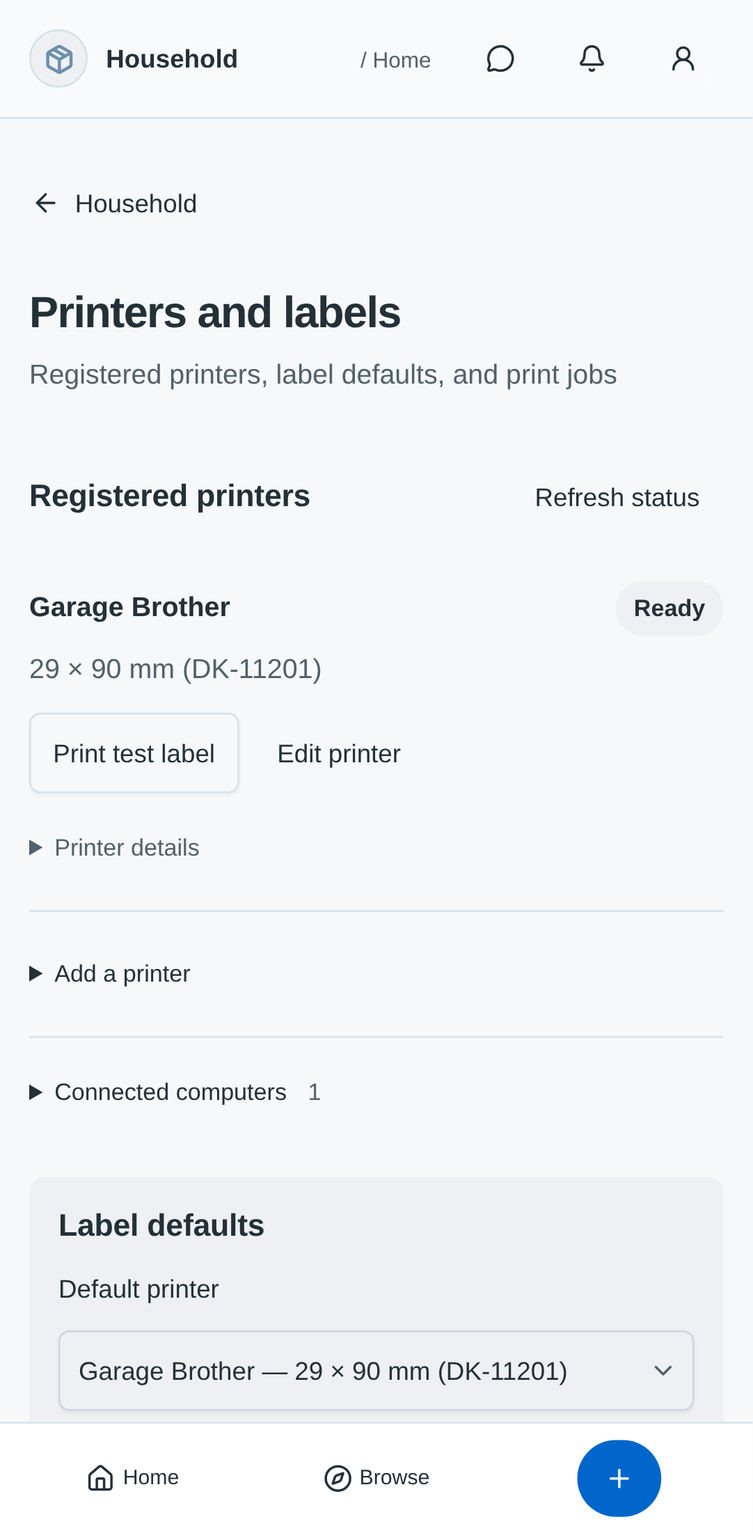
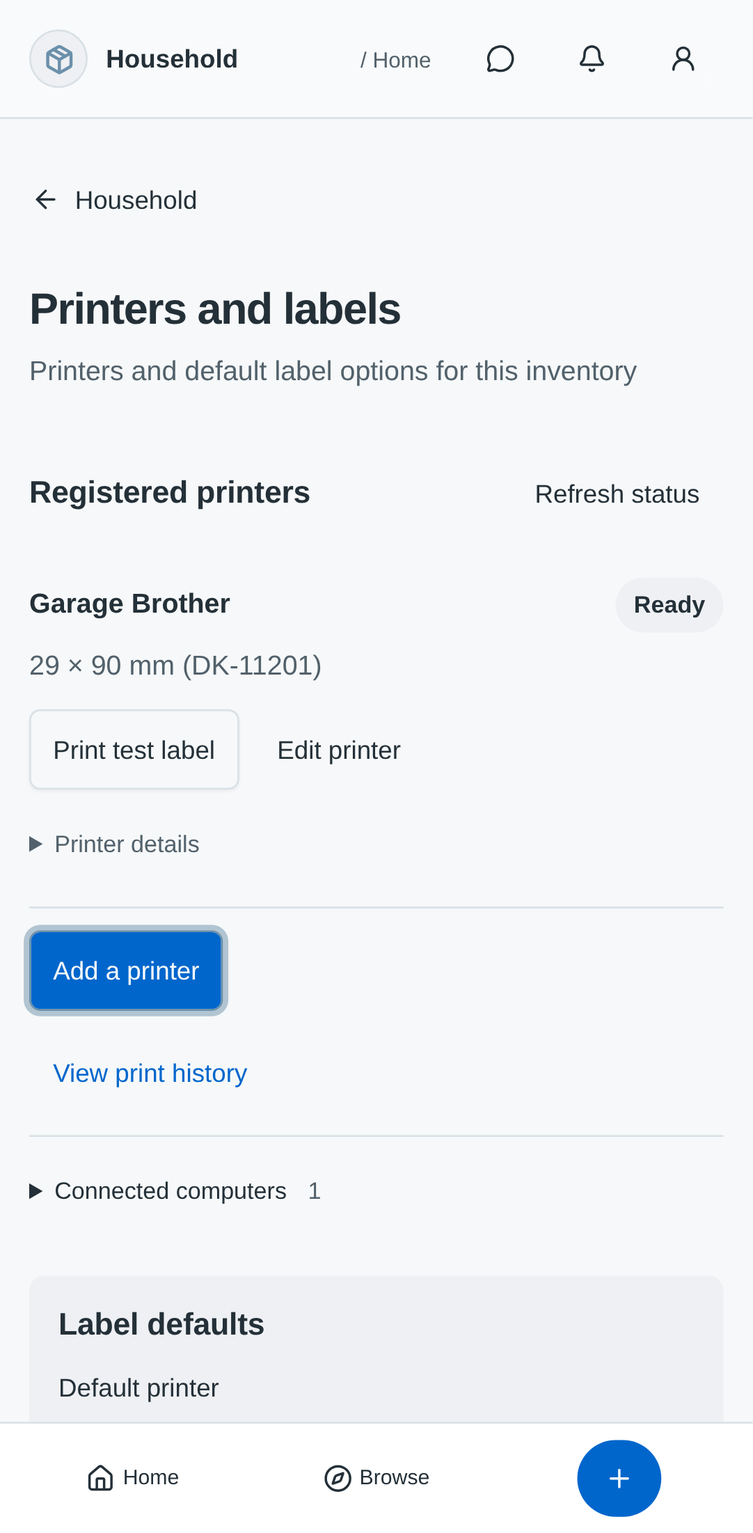
feat(web): separate printer setup and print history tasks

diff --git a/apps/web/src/lib/components/printing/InventoryPrintingSettings.svelte b/apps/web/src/lib/components/printing/InventoryPrintingSettings.svelte
@@ -1,5 +1,5 @@
 <script lang="ts">
-import { onMount } from 'svelte';
+import { onMount, tick, untrack } from 'svelte';
 import { t } from '$lib/presentation/localization';
 import { timestampLabel } from '$lib/presentation/timestamp';
 import { labelMediaName, connectorAvailabilityLabel, readinessReasonLabel, readinessLabel, connectorStatusLabel, printingFailureMessage } from '$lib/presentation/printing';
@@ -15,18 +15,31 @@ import type {PrintPollingRuntime} from '$lib/ports/printPolling';
 import PrintJobList from './PrintJobList.svelte';
 import PrinterSettingsDialog from './PrinterSettingsDialog.svelte';
 import PrinterTestDialog from './PrinterTestDialog.svelte';
+import PrinterSetupDialog from './PrinterSetupDialog.svelte';
+import type {TextClipboard} from '$lib/ports/textClipboard';
 import AssetPrintDialog from './AssetPrintDialog.svelte';
-let { scope, repository, intents, pollingRuntime, canConfigure, canPrint }: {
+let { scope, repository, intents, pollingRuntime, canConfigure, canPrint, view = 'settings', apiBaseUrl, clipboard, historyHref, onNavigate }: {
     scope: PrintScope;
     repository: PrintingRepository;
     intents?: PrintIntents;
     pollingRuntime?:PrintPollingRuntime;
     canConfigure: boolean;
     canPrint: boolean;
+    view?:'settings'|'history';
+    apiBaseUrl?:string;
+    clipboard?:TextClipboard;
+    historyHref?:string;
+    onNavigate?:(href:string)=>void;
 } = $props();
+let titleElement:HTMLHeadingElement;
+let lastView=untrack(()=>view);
+$effect(()=>{if(view!==lastView){lastView=view;void tick().then(()=>titleElement?.focus());}});
+let setupOpen=$state(false);let setupTrigger:HTMLElement|undefined;
+$effect(()=>{if(!canConfigure)setupOpen=false;});
 let mediaProfiles=$state<PrinterMediaChoice[]>([]);
 function mediaName(printer:RegisteredPrinter){return labelMediaName(mediaProfiles.find(p=>p.adapterId===printer.adapterId&&p.media.presetId===printer.media.presetId&&p.media.version===printer.media.version)?.media??printer.media);}
 let printers = $state<RegisteredPrinter[]>([]), connectors = $state<PrintConnector[]>([]), templates = $state<LabelTemplate[]>([]), jobs = $state<PrintJob[]>([]);
+const activeJobs=$derived(jobs.filter(job=>printJobNeedsPolling(job)));
 let draft = $state<PrintDefaults | null>(null), busy = $state(true), error = $state(''), saved = $state(false), conflict = $state(false), nextCursor = $state<string | undefined>();
 let savedDraft=$state('');
 const savedUnchanged=$derived(saved&&JSON.stringify(draft)===savedDraft);
@@ -91,7 +104,9 @@ finally {
 async function moreJobs() { if (!nextCursor || busy)
     return; busy = true; try {
     const page = await repository.jobs(scope, nextCursor);
-    jobs = [...jobs, ...page.items];
+    const merged=new Map(jobs.map(job=>[job.id,job]));
+    for(const job of page.items){const prior=merged.get(job.id);if(!prior||prior.revision<=job.revision)merged.set(job.id,job);}
+    jobs=[...merged.values()];
     nextCursor = page.nextCursor;
     pollError=false;
 }
@@ -131,14 +146,19 @@ function receiveStatus(value:Awaited<ReturnType<typeof pollStatus>>){
     const ids=new Set(refreshed.map(j=>j.id));jobs=[...refreshed,...jobs.filter(j=>!ids.has(j.id))];
 }
 </script>
-<PrintStatusPolling identity={JSON.stringify([scope.tenantId,scope.inventoryId])} enabled={!busy&&Boolean(draft)&&!editing&&!testPrinterId&&!reprint} read={pollStatus} publish={receiveStatus} failed={()=>{if(!busy)pollError=true;}} runtime={pollingRuntime}/>
+<PrintStatusPolling identity={JSON.stringify([scope.tenantId,scope.inventoryId])} enabled={!busy&&Boolean(draft)&&!editing&&!testPrinterId&&!reprint&&!setupOpen} read={pollStatus} publish={receiveStatus} failed={()=>{if(!busy)pollError=true;}} runtime={pollingRuntime}/>
 <section class="printing-settings" aria-labelledby="printing-settings-title" aria-busy={busy}>
- <header><h1 id="printing-settings-title">{t('web.Printing.title')}</h1><p>{t('web.Printing.description')}</p></header>
+ <header><h1 bind:this={titleElement} tabindex="-1" id="printing-settings-title">{t(view==='history'?'web.Printing.jobs':'web.Printing.title')}</h1><p>{t(view==='history'?'web.Printing.historyOrder':'web.Printing.description')}</p></header>
  {#if error}<p role="alert">{error}</p>{/if}
  {#if pollError}<p role="status">{t('web.Printing.statusRefreshFailed')}</p>{/if}
  {#if !draft}{#if busy}<p role="status">{t('web.Printing.loading')}</p>{:else}<Button.Root onclick={()=>void load()}>{t('web.Printing.reload')}</Button.Root>{/if}
  {:else}
 
+  {#if view==='history'}
+   <div><Button.Root variant="outline" disabled={busy} onclick={()=>void refresh()}>{t('web.Printing.refresh')}</Button.Root></div>
+   <PrintJobList {jobs} {printers} {scope} {canPrint} {busy} onCancel={cancel} onResolve={resolve} onReprint={intents?openReprint:undefined}/>
+   {#if nextCursor}<div><Button.Root variant="outline" disabled={busy} onclick={()=>void moreJobs()}>{t('web.Printing.moreJobs')}</Button.Root></div>{/if}
+  {:else}
   <div class="settings-grid">
   <section class="printers-panel" aria-labelledby="registered-printers-title">
    <div class="section-heading"><h2 id="registered-printers-title">{t('web.Printing.registered')}</h2><Button.Root variant="ghost" disabled={busy} onclick={()=>void refresh()}>{t('web.Printing.refresh')}</Button.Root></div>
@@ -152,7 +172,9 @@ function receiveStatus(value:Awaited<ReturnType<typeof pollStatus>>){
      {#if printer.reportedAt}<details class="diagnostics"><summary>{t('web.Printing.printerDetails')}</summary><p>{t('web.Printing.reportedAt',{time:timestampLabel(printer.reportedAt)})}</p></details>{/if}
     </li>
    {/each}</ul>
-   {#if canConfigure}<details class="setup" open={printers.length===0}><summary>{t('web.Printing.addPrinter')}</summary><p>{t('web.Printing.registrationHelp')}</p></details>{/if}
+   {#if canConfigure&&apiBaseUrl}<div class="setup-action"><Button.Root onclick={event=>{setupTrigger=event.currentTarget;setupOpen=true;}}>{t('web.Printing.addPrinter')}</Button.Root></div>{/if}
+   {#if historyHref}<div class="history-action"><Button.Root variant="link" href={historyHref} onclick={event=>{if(onNavigate&&!event.metaKey&&!event.ctrlKey&&!event.shiftKey&&!event.altKey&&event.button===0){event.preventDefault();onNavigate(historyHref!);}}}>{t('web.Printing.viewHistory')}</Button.Root></div>{/if}
+   {#if activeJobs.length}<section class="active-jobs"><h2>{t('web.Printing.activeJobs')}</h2><PrintJobList jobs={activeJobs} {printers} {scope} {canPrint} {busy} onCancel={cancel} onResolve={resolve}/></section>{/if}
    {#each connectors.filter(connector=>connector.availability!=='online'||connector.authorizationPending||connector.state!=='active') as connector(connector.id)}<p class="attention">{connector.name} · {connectorAvailabilityLabel(connector)} · {connectorStatusLabel(connector)}</p>{/each}
    <details class="computers"><summary>{t('web.Printing.connectors')} <span class="count">{connectors.length}</span></summary>
     {#if connectors.length===0}<p>{t('web.Printing.emptyConnectors')}</p>{/if}
@@ -173,11 +195,12 @@ function receiveStatus(value:Awaited<ReturnType<typeof pollStatus>>){
    </form>
   </section>
   </div>
-  <section><h2>{t('web.Printing.jobs')}</h2><PrintJobList {jobs} {printers} {scope} {canPrint} {busy} onCancel={cancel} onResolve={resolve} onReprint={intents?openReprint:undefined}/>{#if nextCursor}<Button.Root variant="outline" disabled={busy} onclick={()=>void moreJobs()}>{t('web.Printing.moreJobs')}</Button.Root>{/if}</section>
+  {/if}
  {/if}
 </section>
+{#if setupOpen&&canConfigure&&apiBaseUrl}<PrinterSetupDialog {apiBaseUrl} {clipboard} onClose={()=>{setupOpen=false;}} onRestoreFocus={()=>setupTrigger?.focus()}/>{/if}
 {#if reprint?.assetId && intents && canPrint}
- {#key reprint.id}<AssetPrintDialog {scope} assetId={reprint.assetId} predecessor={reprint.id} {repository} {intents} onClose={()=>{reprint=null;}} onRestoreFocus={()=>reprintTrigger?.focus()}/>{/key}
+ {#key reprint.id}<AssetPrintDialog {scope} assetId={reprint.assetId} predecessor={reprint.id} {repository} {intents} onClose={()=>{reprint=null;}} onRestoreFocus={()=>{if(reprintTrigger?.isConnected)reprintTrigger.focus();else titleElement?.focus();}}/>{/key}
 {/if}
 {#if testPrinterId && intents && canPrint}
  {#key testPrinterId}<PrinterTestDialog {scope} printerId={testPrinterId} {repository} {intents} onClose={()=>{testPrinterId='';}} onRestoreFocus={()=>testTrigger?.focus()}/>{/key}
@@ -199,6 +222,6 @@ ul{list-style:none;padding:0;margin:0;display:grid;gap:var(--space-3)}li{min-wid
 .readiness{font-size:var(--text-metadata-size);font-weight:600;background:var(--muted);padding:.25rem .625rem;border-radius:var(--radius-pill)}.readiness.ready{color:var(--foreground)}
 p{color:var(--muted-foreground);margin-block:var(--space-2);line-height:1.5}strong,p,h3,summary{overflow-wrap:anywhere}
 details{font-size:var(--text-metadata-size)}summary{cursor:pointer;min-height:44px;align-content:center;font-weight:500}summary:focus-visible{outline:2px solid var(--ring);outline-offset:3px;border-radius:var(--radius-sm)}
-.diagnostics{margin-top:var(--space-2);color:var(--muted-foreground)}.setup,.computers{margin-top:var(--space-3)}.computers{border-top:1px solid var(--border);padding-top:var(--space-2)}.count{color:var(--muted-foreground);margin-left:.5rem}.attention{color:var(--foreground)}.empty-state{padding-block:var(--space-4)}
+.diagnostics{margin-top:var(--space-2);color:var(--muted-foreground)}.setup-action,.history-action,.active-jobs,.computers{margin-top:var(--space-3)}.computers{border-top:1px solid var(--border);padding-top:var(--space-2)}.count{color:var(--muted-foreground);margin-left:.5rem}.attention{color:var(--foreground)}.empty-state{padding-block:var(--space-4)}
 @media(max-width:1024px){.settings-grid{grid-template-columns:minmax(0,1fr)}.defaults-panel{padding:var(--space-4)}header h1{font-size:var(--text-title-size)}}
 </style>

diff --git a/apps/web/e2e/printing-settings.spec.ts b/apps/web/e2e/printing-settings.spec.ts
@@ -6,12 +6,26 @@ test('printer settings protect drafts and disclose report details inside the wor
  const printer=await installPrintingSettings(page,()=>pendingProfiles);await page.goto(path);
  await expect(page.getByRole('heading',{name:'Registered printers',exact:true})).toBeVisible();
  await expect(page.getByText('29 × 90 mm (DK-11201)',{exact:true})).toBeVisible();
- await expect(page.getByText('Reported printed',{exact:true})).toBeVisible();
+ await expect(page.getByText('Reported printed',{exact:true})).not.toBeVisible();
+ await page.getByRole('checkbox',{name:'Print a label by default when creating an asset',exact:true}).check();
+ await page.getByRole('link',{name:'View print history',exact:true}).click();
+ await expect(page).toHaveURL(`${path}/history`);
  await expect(page.getByRole('heading',{name:'Print history',exact:true})).toBeVisible();
  const actor=page.getByText('Reported by oidc_', {exact:false});await expect(actor).not.toBeVisible();
  await page.getByText('Report details',{exact:true}).focus();await page.keyboard.press('Enter');await expect(actor).toBeVisible();
  expect(await page.evaluate(()=>document.documentElement.scrollWidth<=innerWidth)).toBe(true);
  await page.getByText('Report details',{exact:true}).press('Enter');
+ await page.screenshot({path:testInfo.outputPath('printing-history.png'),fullPage:true});
+ await page.getByRole('link',{name:'Printers and labels',exact:true}).click();
+ await expect(page.getByRole('checkbox',{name:'Print a label by default when creating an asset',exact:true})).toBeChecked();
+ const add=page.getByRole('button',{name:'Add a printer',exact:true});await add.click();
+ await expect(page.getByRole('dialog',{name:'Add a printer'})).toBeVisible();
+ await expect(page.getByRole('link',{name:'Download Stuff Stash CLI'})).toHaveAttribute('href','https://stuffstash.org/cli-downloads/');
+ await expect(page.getByRole('link',{name:'Printer setup guide'})).toHaveAttribute('href','https://stuffstash.org/printing/setup/');
+ await page.getByLabel('Computer name',{exact:true}).fill("Garage's computer");
+ await expect(page.getByLabel('Printer registration command')).toContainText("./stuffstash --server 'http://127.0.0.1:18080' connectors print register --name 'Garage'\\''s computer'");
+ await page.screenshot({path:testInfo.outputPath('printer-setup.png')});
+ await page.keyboard.press('Escape');await expect(add).toBeFocused();
  await page.getByRole('heading',{name:'Printers and labels',exact:true}).scrollIntoViewIfNeeded();
  await page.screenshot({path:testInfo.outputPath('printing-settings.png'),fullPage:true});
  const edit=page.getByRole('button',{name:'Edit printer',exact:true});await edit.click();
@@ -33,4 +47,19 @@ test('printer settings protect drafts and disclose report details inside the wor
  await expect(page.getByRole('button',{name:'Cancel',exact:true})).toBeEnabled();await page.keyboard.press('Escape');
  await expect(page.getByRole('dialog')).not.toBeVisible();await expect(edit).toBeFocused();}
  finally{release();}
+});
+
+test('empty printer settings lead directly to setup and documentation',async({page})=>{
+ await installPrintingSettings(page,undefined,true);await page.goto(path);
+ await expect(page.getByText('No printers registered yet',{exact:true})).toBeVisible();
+ const cdp=await page.context().newCDPSession(page);await cdp.send('Browser.setPermission',{permission:{name:'clipboard-write'},setting:'denied',origin:new URL(page.url()).origin});
+ await page.getByRole('button',{name:'Add a printer',exact:true}).click();
+ await expect(page.getByLabel('Printer registration command')).toContainText("--server 'http://127.0.0.1:18080'");
+ await expect(page.getByRole('link',{name:'Download Stuff Stash CLI'})).toBeVisible();
+ await expect(page.getByRole('link',{name:'Printer setup guide'})).toBeVisible();
+ await page.getByRole('button',{name:'Copy command',exact:true}).click();
+ await expect(page.getByRole('alert')).toContainText('Select and copy');
+ await expect(page.getByLabel('Printer registration command')).toBeVisible();
+ await page.getByRole('button',{name:'Close',exact:true}).last().click();
+ await expect(page.getByRole('button',{name:'Add a printer',exact:true})).toBeFocused();
 });

diff --git a/apps/web/src/lib/components/workspace/settings/SettingsWorkspace.svelte b/apps/web/src/lib/components/workspace/settings/SettingsWorkspace.svelte
@@ -1,5 +1,6 @@
 <script lang="ts">
   import { inventoryArchiveContext, type InventoryArchiveWorkspace } from '$lib/ports/inventoryArchive';
+  import {browserTextClipboard} from '$lib/adapters/browser/textClipboard';
   import InventoryPrintingSettings from '$lib/components/printing/InventoryPrintingSettings.svelte';
   import { printingWorkspaceContext, type PrintingWorkspace } from '$lib/ports/printingRepository';
   const printing = getContext<PrintingWorkspace | undefined>(printingWorkspaceContext);
@@ -47,6 +48,8 @@
   let levelTitle = $derived(route.settingsLevel === 'tenant' ? tenant?.name : route.settingsLevel === 'inventory' ? inventory?.name : t('web.SettingsWorkspace.settings'));
   let levelLabel = $derived(route.settingsLevel === 'tenant' ? t('web.SettingsWorkspace.tenantSettings') : route.settingsLevel === 'inventory' ? t('web.SettingsWorkspace.inventorySettings') : '');
   let levelHref = $derived(route.settingsLevel === 'tenant' && tenant ? settingsResourceHref({ level: 'tenant', tenantId: tenant.id }) : tenant && inventory ? settingsResourceHref({ level: 'inventory', tenantId: tenant.id, inventoryId: inventory.id }) : '/settings');
+  const printingHistory=$derived(route.settingsCollection==='printing'&&route.settingsResourceId==='history');
+  const printingHref=$derived(tenant&&inventory?settingsResourceHref({level:'inventory',tenantId:tenant.id,inventoryId:inventory.id,collection:'printing'}):'/settings');
   function navigate(event: MouseEvent, href: string): void { event.preventDefault(); onNavigate(href); }
   function updateTypes(types: CustomAssetType[]): void { latestTypes = types; onSchemaChange(latestTypes, latestFields.length ? latestFields : currentFields); }
   function updateFields(fields: CustomFieldDefinition[]): void { latestFields = fields; onSchemaChange(latestTypes.length ? latestTypes : currentAssetTypes, latestFields); }
@@ -90,10 +93,10 @@
   </section>
 {:else}
   <div class="workspace-main settings-management settings-management-resource">
-    <Button.Root href={levelHref} variant="ghost" class="settings-back" onclick={(event) => navigate(event, levelHref)}><ArrowLeft /> {levelTitle}</Button.Root>
+    <Button.Root href={printingHistory?printingHref:levelHref} variant="ghost" class="settings-back" onclick={(event) => navigate(event, printingHistory?printingHref:levelHref)}><ArrowLeft /> {printingHistory?t('web.Printing.title'):levelTitle}</Button.Root>
     {#if route.settingsCollection === 'printing' && inventory && printing}
       {#key JSON.stringify([printing.apiIdentity, principal.id, tenant.id, inventory.id])}
-        <InventoryPrintingSettings scope={{tenantId: tenant.id, inventoryId: inventory.id}} repository={printing.repository} intents={printing.intents} canConfigure={hasAccessPermission(inventory.access, 'configure')} canPrint={canEditAsset(inventory)} />
+        <InventoryPrintingSettings view={printingHistory?'history':'settings'} apiBaseUrl={printing.apiIdentity} clipboard={browserTextClipboard} historyHref={`${printingHref}/history`} {onNavigate} scope={{tenantId: tenant.id, inventoryId: inventory.id}} repository={printing.repository} intents={printing.intents} canConfigure={hasAccessPermission(inventory.access, 'configure')} canPrint={canEditAsset(inventory)} />
       {/key}
     {:else if route.settingsCollection === 'notifications' && inventory && notifications}
       {#key JSON.stringify([notifications.apiIdentity, principal.id, tenant.id, inventory.id])}

diff --git a/apps/web/src/lib/components/printing/PrintJobResolution.test.ts b/apps/web/src/lib/components/printing/PrintJobResolution.test.ts
@@ -8,7 +8,7 @@ afterEach(async()=>{if(component)await unmount(component);component=undefined;do
 async function settle(){for(let i=0;i<8;i++){await Promise.resolve();await tick();}}
 function button(text:string){return [...document.querySelectorAll<HTMLButtonElement>('button')].find(b=>b.textContent?.trim()===text);}
 function uncertain():PrintJob{return {id:'job',printerId:'printer',assetId:'asset',status:'uncertain',revision:3,copies:1,completedCopies:0,reason:'response_lost',attemptOutcome:'uncertain',createdAt:'2026-10-03T12:00:00Z'};}
-async function start(repository:FakePrintingRepository,canPrint=true){component=mount(InventoryPrintingSettings,{target:document.body,props:{scope:repository.scope,repository,canConfigure:false,canPrint}});await settle();}
+async function start(repository:FakePrintingRepository,canPrint=true){component=mount(InventoryPrintingSettings,{target:document.body,props:{view:'history',scope:repository.scope,repository,canConfigure:false,canPrint}});await settle();}
 async function selectOutcome(){const trigger=document.getElementById('resolution-outcome-job')!;trigger.focus();trigger.dispatchEvent(new KeyboardEvent('keydown',{key:'Enter',bubbles:true,cancelable:true}));flushSync();await settle();const option=[...document.querySelectorAll<HTMLElement>('[role="option"]')].find(n=>n.textContent?.trim()==='I saw the label print')!;option.dispatchEvent(new PointerEvent('pointerup',{pointerType:'mouse',bubbles:true,cancelable:true}));flushSync();await settle();}
 it('waits for current-attempt idle evidence and keeps viewers from resolving',async()=>{const repository=new FakePrintingRepository();repository.queued.set('job',uncertain());await start(repository,false);expect(button('Resolve this job')).toBeUndefined();expect(document.body.textContent).toContain('must confirm the printer is idle');repository.queued.get('job')!.idleConfirmedAt='2026-10-03T12:01:00Z';button('Refresh status')!.click();await settle();expect(button('Resolve this job')).toBeUndefined();expect(repository.queued.get('job')!.status).toBe('uncertain');});
 it('requires acknowledgement and retries a lost resolution without rewriting physical evidence or printing',async()=>{const repository=new FakePrintingRepository();repository.queued.set('job',{...uncertain(),idleConfirmedAt:'2026-10-03T12:01:00Z'});repository.loseNextResolutionResponse=true;await start(repository);expect(button('Resolve this job')!.disabled).toBe(true);await selectOutcome();expect(button('Resolve this job')!.disabled).toBe(true);(document.getElementById('resolution-ack-job') as HTMLInputElement).click();await settle();button('Resolve this job')!.click();await settle();expect(repository.queued.get('job')!.resolution?.reportedOutcome).toBe('printed');expect(document.querySelector('[role="alert"]')).not.toBeNull();expect((document.getElementById('resolution-outcome-job') as HTMLButtonElement).disabled).toBe(true);button('Retry the same resolution')!.click();await settle();expect(document.body.textContent).toContain('Reported printed');expect(document.body.textContent).toContain('the printer did not confirm the outcome.');expect(document.body.textContent).toContain('User report: I saw the label print');expect(repository.queued.get('job')!.attemptOutcome).toBe('uncertain');expect(repository.queued.get('job')!.completedCopies).toBe(0);expect(repository.queued.size).toBe(1);});

diff --git a/apps/web/src/lib/components/printing/PrinterSetupDialog.svelte b/apps/web/src/lib/components/printing/PrinterSetupDialog.svelte
@@ -1,0 +1,32 @@
+<script lang="ts">
+ import * as Dialog from '$lib/components/ui/dialog/index.js';
+ import {Button} from '$lib/components/ui/button/index.js';
+ import {Input} from '$lib/components/ui/input/index.js';
+ import {Label} from '$lib/components/ui/label/index.js';
+ import {t} from '$lib/presentation/localization';
+ import type {TextClipboard} from '$lib/ports/textClipboard';
+ import {printerRegistrationCommand} from '$lib/application/printing/registrationCommand';
+ let {apiBaseUrl,clipboard,onClose,onRestoreFocus}:{apiBaseUrl:string;clipboard?:TextClipboard;onClose:()=>void;onRestoreFocus:()=>void}=$props();
+ let computerName=$state(t('web.Printing.defaultComputerName')),copied=$state(''),copyFailed=$state(false);
+ const command=$derived(printerRegistrationCommand(apiBaseUrl,computerName));
+ async function copy(){if(!computerName.trim()||!clipboard)return;copyFailed=false;const requestedCommand=command;try{await clipboard.write(requestedCommand);copied=requestedCommand;}catch{copyFailed=true;}}
+</script>
+<Dialog.Root open onOpenChange={open=>{if(!open)onClose();}}>
+ <Dialog.Content class="sm:max-w-xl" onCloseAutoFocus={event=>{event.preventDefault();onRestoreFocus();}}>
+  <Dialog.Header><Dialog.Title>{t('web.Printing.addPrinter')}</Dialog.Title><Dialog.Description>{t('web.Printing.setupIntro')}</Dialog.Description></Dialog.Header>
+  <ol class="setup-steps">
+   <li><h3>{t('web.Printing.setupInstall')}</h3><p>{t('web.Printing.setupInstallHelp')}</p><a href="https://stuffstash.org/cli-downloads/" target="_blank" rel="noopener noreferrer">{t('web.Printing.downloadCLI')}</a> · <a href="https://stuffstash.org/printing/setup/" target="_blank" rel="noopener noreferrer">{t('web.Printing.setupGuide')}</a></li>
+   <li><h3>{t('web.Printing.setupRegister')}</h3><Label for="printer-computer-name">{t('web.Printing.computerName')}</Label><Input id="printer-computer-name" bind:value={computerName} placeholder={t('web.Printing.computerNameExample')}/>
+    <p>{t('web.Printing.setupCommandHelp')}</p><pre aria-label={t('web.Printing.registrationCommand')}><code>{command}</code></pre>
+    <Button variant="outline" disabled={!computerName.trim()||!clipboard} onclick={()=>void copy()}>{t('web.Printing.copyCommand')}</Button>
+    {#if copied===command}<p role="status">{t('web.Printing.commandCopied')}</p>{/if}{#if copyFailed}<p role="alert">{t('web.Printing.copyCommandFailed')}</p>{/if}
+   </li>
+   <li><h3>{t('web.Printing.setupApprove')}</h3><p>{t('web.Printing.setupApproveHelp')}</p></li>
+   <li><h3>{t('web.Printing.setupRun')}</h3><p>{t('web.Printing.setupRunHelp')}</p></li>
+  </ol>
+  <Dialog.Footer><Button onclick={onClose}>{t('web.Printing.close')}</Button></Dialog.Footer>
+ </Dialog.Content>
+</Dialog.Root>
+<style>
+.setup-steps{display:grid;gap:var(--space-4);padding-left:var(--space-4);margin:0}li{padding-left:var(--space-2);min-width:0}h3{font-size:var(--text-label-size);font-weight:600;margin:0 0 var(--space-2)}p{color:var(--muted-foreground);margin:var(--space-2) 0}a{text-decoration:underline;text-underline-offset:.2em}pre{white-space:pre-wrap;overflow-wrap:anywhere;background:var(--muted);padding:var(--space-3);border-radius:var(--radius-control);font-size:var(--text-metadata-size);margin-block:var(--space-3)}
+</style>

diff --git a/apps/web/src/lib/components/printing/LinkedReprint.test.ts b/apps/web/src/lib/components/printing/LinkedReprint.test.ts
@@ -7,7 +7,7 @@ let component:ReturnType<typeof mount>|undefined;
 afterEach(async()=>{if(component)await unmount(component);component=undefined;document.body.innerHTML='';});
 async function settle(){for(let i=0;i<10;i++){await Promise.resolve();await tick();}}
 function button(text:string){return [...document.querySelectorAll<HTMLButtonElement>('button')].find(b=>b.textContent?.trim()===text);}
-async function fixture(canPrint=true){const repository=new FakePrintingRepository();repository.queued.set('prior',{id:'prior',assetId:'asset',printerId:'printer',status:'failed',revision:5,copies:1,completedCopies:0,reason:'response_lost',attemptOutcome:'uncertain',resolution:{reportedOutcome:'unknown',resolvedBy:'editor',resolvedAt:'2026-10-03T12:02:00Z'},createdAt:'2026-10-03T12:00:00Z'});const intents=new SessionPrintIntents(repository,()=> 'reprint-key');component=mount(InventoryPrintingSettings,{target:document.body,props:{scope:repository.scope,repository,intents,canConfigure:false,canPrint}});await settle();return repository;}
+async function fixture(canPrint=true){const repository=new FakePrintingRepository();repository.queued.set('prior',{id:'prior',assetId:'asset',printerId:'printer',status:'failed',revision:5,copies:1,completedCopies:0,reason:'response_lost',attemptOutcome:'uncertain',resolution:{reportedOutcome:'unknown',resolvedBy:'editor',resolvedAt:'2026-10-03T12:02:00Z'},createdAt:'2026-10-03T12:00:00Z'});const intents=new SessionPrintIntents(repository,()=> 'reprint-key');component=mount(InventoryPrintingSettings,{target:document.body,props:{view:'history',scope:repository.scope,repository,intents,canConfigure:false,canPrint}});await settle();return repository;}
 it('opens an explicit preview before a linked reprint and resumes a lost response after dismissal',async()=>{const repository=await fixture();button('Print another label')!.click();await settle();expect(repository.queued.size).toBe(1);button('Preview label')!.click();await settle();repository.loseNextJobResponse=true;button('Print label')!.click();await settle();expect(repository.queued.size).toBe(2);expect(repository.queued.get('job-2')!.predecessor).toBe('prior');document.querySelector<HTMLButtonElement>('[data-slot="dialog-close"]')!.click();await settle();button('Print another label')!.click();await settle();button('Retry the same print request')!.click();await settle();expect(repository.queued.size).toBe(2);});
 it('does not expose reprinting to viewers or for unresolved jobs',async()=>{const repository=await fixture(false);expect(button('Print another label')).toBeUndefined();repository.queued.get('prior')!.status='uncertain';button('Refresh status')!.click();await settle();expect(button('Print another label')).toBeUndefined();});
 it('hides reprint from editors while physical output is still unresolved',async()=>{const repository=await fixture();Object.assign(repository.queued.get('prior')!,{status:'uncertain',resolution:undefined});button('Refresh status')!.click();await settle();expect(button('Print another label')).toBeUndefined();expect(repository.queued.size).toBe(1);});

diff --git a/apps/web/e2e/printing-settings-fixture.ts b/apps/web/e2e/printing-settings-fixture.ts
@@ -3,7 +3,7 @@ import {installAuthenticatedWorkspace} from './workspace-fixture';
 
 // Controlled transport implementation: printer edits enforce revisions and persist.
 // It cannot contact a connector or produce physical output.
-export async function installPrintingSettings(page:Page, waitForProfiles?:()=>Promise<void>|undefined){
+export async function installPrintingSettings(page:Page, waitForProfiles?:()=>Promise<void>|undefined, empty=false){
  await installAuthenticatedWorkspace(page);
  const media={name:'29 × 90 mm (DK-11201)',presetId:'brother-ql800-29x90',version:1,widthMicrometers:29000,heightMicrometers:89800,marginsMicrometers:{left:1524,right:1524,top:2963,bottom:2963},resolutionDpi:300,rasterWidth:306,rasterHeight:991,orientation:'feed',colorMode:'monochrome',cutPolicy:'after_label',displayRotation:270};
  const printer={id:'printer',name:'Garage Brother',adapterId:'brother-ql800',revision:1,retired:false,media:{...media,name:''},mediaFingerprint:'media-v1',readiness:'ready',reportedAt:'2026-10-04T02:00:00Z'};
@@ -18,10 +18,10 @@ export async function installPrintingSettings(page:Page, waitForProfiles?:()=>Pr
    const input=route.request().postDataJSON();if(input.revision!==printer.revision)return route.fulfill({status:409,json:{error:{code:'conflict',message:'Printer changed'}}});
    Object.assign(printer,{name:input.name,retired:input.retired,revision:printer.revision+1});data=printer;
   }else if(route.request().method()!=='GET')return route.fulfill({status:405});
-  else if(operation==='printers')data=[printer];
+  else if(operation==='printers')data=empty?[]:[printer];
   else if(operation==='printer-profiles'){await waitForProfiles?.();data=[{adapterId:'brother-ql800',media:[media]}];}
   else if(operation==='print-connectors')data=[{id:'computer',name:'Garage computer',state:'active',authorizationPending:false,availability:'online',printerIds:['printer'],lastSeenAt:'2026-10-04T02:00:00Z'}];
-  else if(operation==='print-settings')data={revision:1,defaultPrinterId:'printer',template:{id:'qr-title',version:1,options:{showReference:true}},printOnCreateDefault:false};
+  else if(operation==='print-settings')data={revision:1,defaultPrinterId:empty?null:'printer',template:{id:'qr-title',version:1,options:{showReference:true}},printOnCreateDefault:false};
   else if(operation==='label-templates')data=[{id:'qr-title',version:1,name:'QR and title',defaults:{show_reference:true}}];
   else if(operation==='print-jobs')data=[{id:'reported',printerId:'printer',status:'failed',revision:4,copies:1,createdAt:'2026-10-04T01:00:00Z',attempts:[{outcome:'uncertain',completedCopies:0}],resolution:{reportedOutcome:'printed',resolvedBy:'oidc_'+('long-subject-'.repeat(9)),resolvedAt:'2026-10-04T01:05:00Z'}},{id:'completed',printerId:'printer',status:'completed',revision:3,copies:1,createdAt:'2026-10-04T00:00:00Z',attempts:[{outcome:'completed',completedCopies:1}]}];
   return route.fulfill({status:200,json:{data,meta:{pagination:{}}}});

diff --git a/packages/localization/src/web.ts b/packages/localization/src/web.ts
@@ -40,8 +40,29 @@ export const webMessages = {
   "web.Printing.referenceHelp": "Adds a short, readable ID to the label.",
   "web.Printing.reportDetails": "Report details",
   "web.Printing.removedPrinter": "Unavailable printer",
+  "web.Printing.viewHistory": "View print history",
+  "web.Printing.activeJobs": "Printing activity",
+  "web.Printing.historyOrder": "Oldest first. Load more to see later jobs.",
+  "web.Printing.setupIntro": "Connect a Brother QL-800 by USB to a Linux computer, with 29 × 90 mm labels loaded.",
+  "web.Printing.setupInstall": "Download the CLI",
+  "web.Printing.setupInstallHelp": "Download and extract the Linux CLI on the computer connected to your printer.",
+  "web.Printing.downloadCLI": "Download Stuff Stash CLI",
+  "web.Printing.setupRegister": "Connect your printer computer",
+  "web.Printing.defaultComputerName": "Printer computer",
+  "web.Printing.computerName": "Computer name",
+  "web.Printing.computerNameExample": "For example, Garage computer",
+  "web.Printing.setupCommandHelp": "Run this command from the folder containing the CLI:",
+  "web.Printing.registrationCommand": "Printer registration command",
+  "web.Printing.copyCommand": "Copy command",
+  "web.Printing.commandCopied": "Command copied",
+  "web.Printing.copyCommandFailed": "Copy was unavailable. Select and copy the command above.",
+  "web.Printing.setupApprove": "Approve the connection",
+  "web.Printing.setupApproveHelp": "Open the address shown in the terminal and enter its code. Choose this inventory, your printer, and the loaded label size.",
+  "web.Printing.setupRun": "Start the print worker",
+  "web.Printing.setupRunHelp": "Keep the connector ID shown after approval. Follow the setup guide to run the worker on this computer; it must stay running to print.",
+  "web.Printing.setupGuide": "Printer setup guide",
   "web.Printing.title": "Printers and labels",
-  "web.Printing.description": "Registered printers, label defaults, and print jobs",
+  "web.Printing.description": "Printers and default label options for this inventory",
   "web.Printing.shared": "Inventory",
   "web.Printing.defaults": "Label defaults",
   "web.Printing.defaultPrinter": "Default printer",

diff --git a/apps/web/src/lib/components/printing/PrinterSetupDialog.test.ts b/apps/web/src/lib/components/printing/PrinterSetupDialog.test.ts
@@ -1,0 +1,24 @@
+import {afterEach,expect,it} from 'vitest';
+import {mount,tick,unmount} from 'svelte';
+import PrinterSetupDialog from './PrinterSetupDialog.svelte';
+import type {TextClipboard} from '$lib/ports/textClipboard';
+class ControlledClipboard implements TextClipboard{
+ content='';denied=false;pending?:Promise<void>;
+ async write(text:string){await this.pending;if(this.denied)throw new Error('Denied');this.content=text;}
+}
+let component:ReturnType<typeof mount>|undefined;
+afterEach(async()=>{if(component)await unmount(component);document.body.innerHTML='';});
+async function settle(){for(let i=0;i<8;i++){await Promise.resolve();await tick();}}
+it('keeps the safely quoted API command selectable when clipboard access is denied',async()=>{
+ const clipboard=new ControlledClipboard();clipboard.denied=true;
+ component=mount(PrinterSetupDialog,{target:document.body,props:{apiBaseUrl:'https://api.example.test',clipboard,onClose(){},onRestoreFocus(){}}});await settle();
+ const name=document.getElementById('printer-computer-name') as HTMLInputElement;
+ name.value="Garage's $(computer)";name.dispatchEvent(new Event('input',{bubbles:true}));await settle();
+ const button=[...document.querySelectorAll('button')].find(button=>button.textContent?.trim()==='Copy command')!;
+ button.click();await settle();expect(document.querySelector('[role="alert"]')?.textContent).toContain('Select and copy');
+ const command=document.querySelector('code')!.textContent!;expect(command).toBe("./stuffstash --server 'https://api.example.test' connectors print register --name 'Garage'\\''s $(computer)'");
+ clipboard.denied=false;button.click();await settle();expect(clipboard.content).toBe(command);expect(document.body.textContent).toContain('Command copied');
+ let release!:()=>void;clipboard.pending=new Promise<void>(resolve=>{release=resolve;});button.click();await settle();
+ name.value='Changed while copying';name.dispatchEvent(new Event('input',{bubbles:true}));await settle();release();await settle();
+ expect(clipboard.content).toBe(command);expect(document.body.textContent).not.toContain('Command copied');
+});

diff --git a/apps/web/src/lib/application/settingsRouteCodec.ts b/apps/web/src/lib/application/settingsRouteCodec.ts
@@ -26,7 +26,8 @@ export function formatSettingsRouteHref(state: SettingsRouteState): string {
     if (state.settingsLevel === 'inventory' && state.inventoryId) path += `/inventories/${encodeURIComponent(state.inventoryId)}`;
     if (state.settingsCollection && (!['notifications', 'printing'].includes(state.settingsCollection) || state.settingsLevel === 'inventory') && (state.settingsCollection !== 'conversations' || state.settingsLevel === 'tenant')) {
       path += `/${state.settingsCollection}`;
-      if (state.settingsCollection === 'conversations' || state.settingsCollection === 'notifications' || state.settingsCollection === 'printing') return path;
+      if(state.settingsCollection==='printing')return state.settingsResourceId==='history'?`${path}/history`:path;
+      if (state.settingsCollection === 'conversations' || state.settingsCollection === 'notifications') return path;
       if (state.settingsCollection === 'access' && state.accessInvitationAction && state.accessInvitationId) {
         path += `/invitations/${encodeURIComponent(state.accessInvitationId)}/${state.accessInvitationAction}`;
       } else if (state.settingsResourceAction === 'new') path += '/new';

diff --git a/apps/web/src/lib/application/workspaceRoute.ts b/apps/web/src/lib/application/workspaceRoute.ts
@@ -517,7 +517,13 @@ function parseSettingsCollectionSegments(route: WorkspaceRouteState, segments: s
     ? (segments[0] as Exclude<SettingsCollection, null>)
     : null;
   if (!collection) return route;
-  if ((collection === 'notifications' || collection === 'printing') && (route.settingsLevel !== 'inventory' || segments.length !== 1)) return route;
+  if (collection === 'notifications' && (route.settingsLevel !== 'inventory' || segments.length !== 1)) return route;
+  if (collection === 'printing') {
+    if (route.settingsLevel !== 'inventory') return route;
+    if (segments.length === 1) return {...route,settingsCollection:collection};
+    if (segments.length === 2 && segments[1] === 'history') return {...route,settingsCollection:collection,settingsResourceId:'history'};
+    return route;
+  }
   if (collection === 'conversations' && (route.settingsLevel !== 'tenant' || segments.length !== 1)) return route;
   if (segments.length === 1) return { ...route, settingsCollection: collection };
   if (collection === 'access' && segments.length === 4 && segments[1] === 'invitations') {

diff --git a/apps/web/src/lib/application/workspaceRoute.test.ts b/apps/web/src/lib/application/workspaceRoute.test.ts
@@ -470,3 +470,10 @@ it('routes notification preferences only at inventory scope without resource sub
   expect(parseWorkspaceRoute(new URL('https://app.test/settings/tenants/home/notifications')).settingsCollection).toBeNull();
   expect(parseWorkspaceRoute(new URL(`https://app.test${path}/new`)).settingsCollection).toBeNull();
 });
+
+it('round trips inventory print history and rejects invalid scopes and suffixes',()=>{
+ const url='https://app.test/settings/tenants/home/inventories/garage/printing/history';
+ const route=parseWorkspaceRoute(new URL(url));expect(route).toMatchObject({settingsCollection:'printing',settingsResourceId:'history'});
+ expect(workspaceRouteHref(route,null,null)).toBe(new URL(url).pathname);
+ for(const path of ['/settings/tenants/home/printing/history','/settings/tenants/home/inventories/garage/printing/other'])expect(parseWorkspaceRoute(new URL(path,'https://app.test')).settingsCollection).toBeNull();
+});
